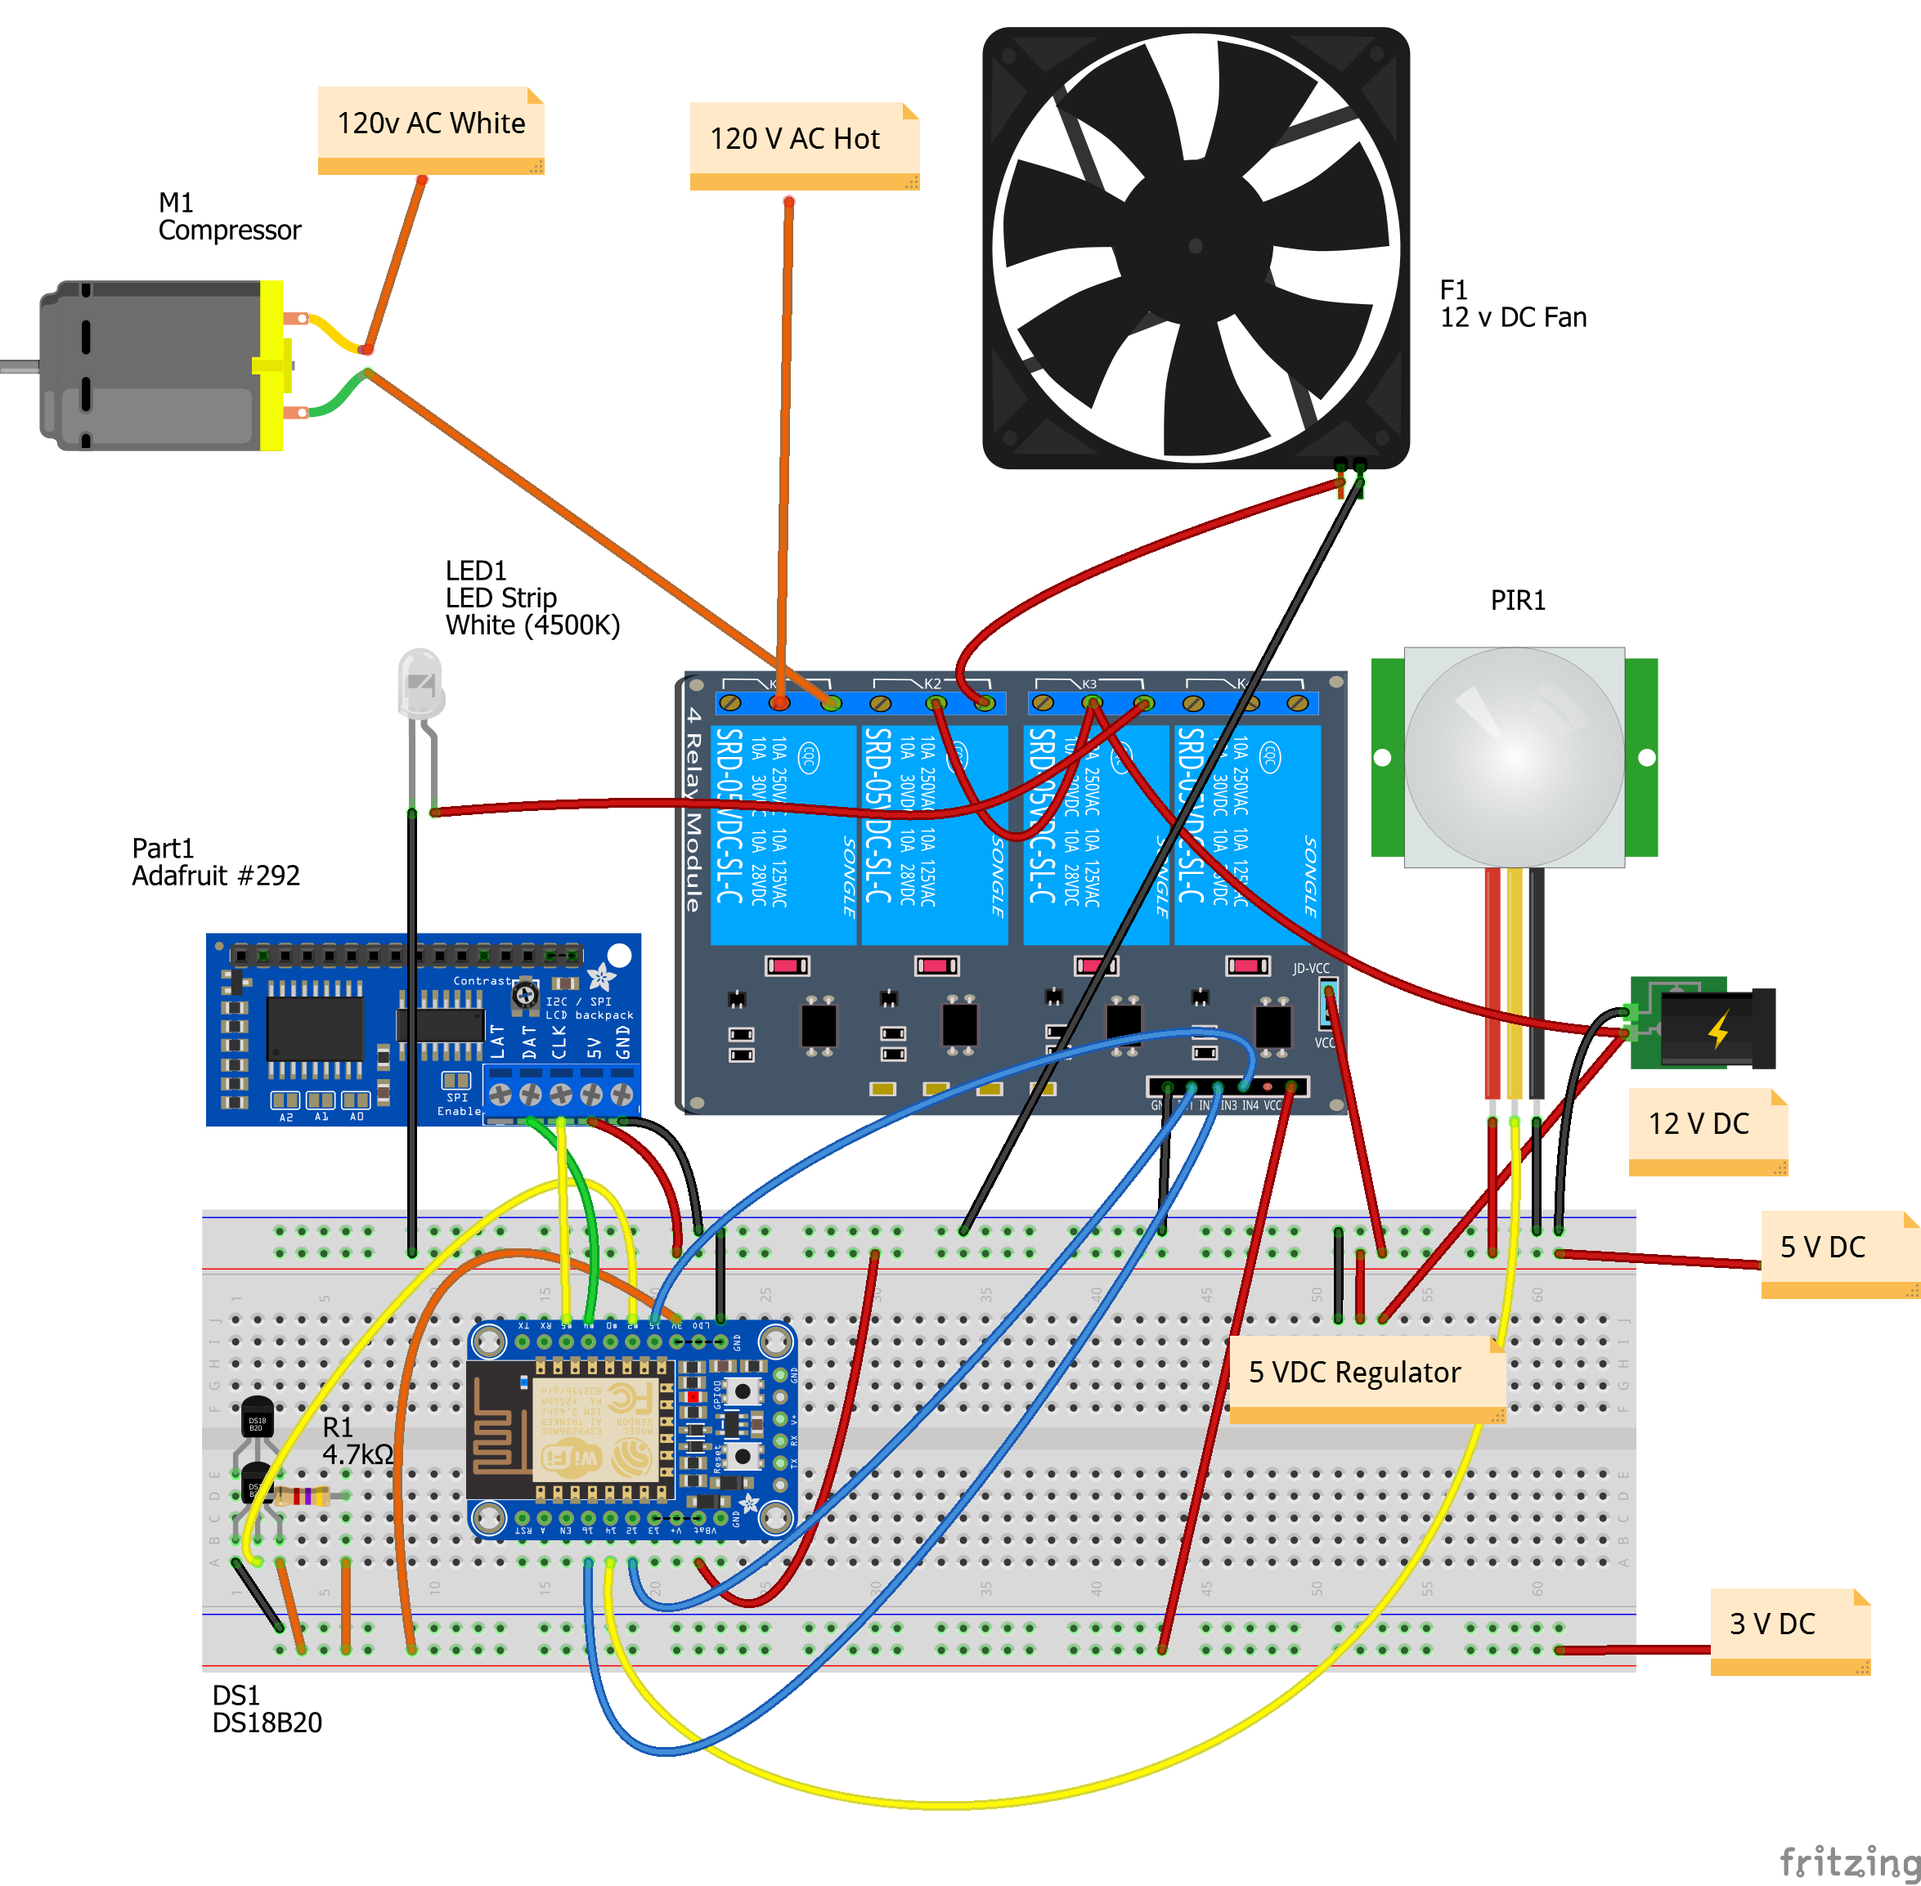
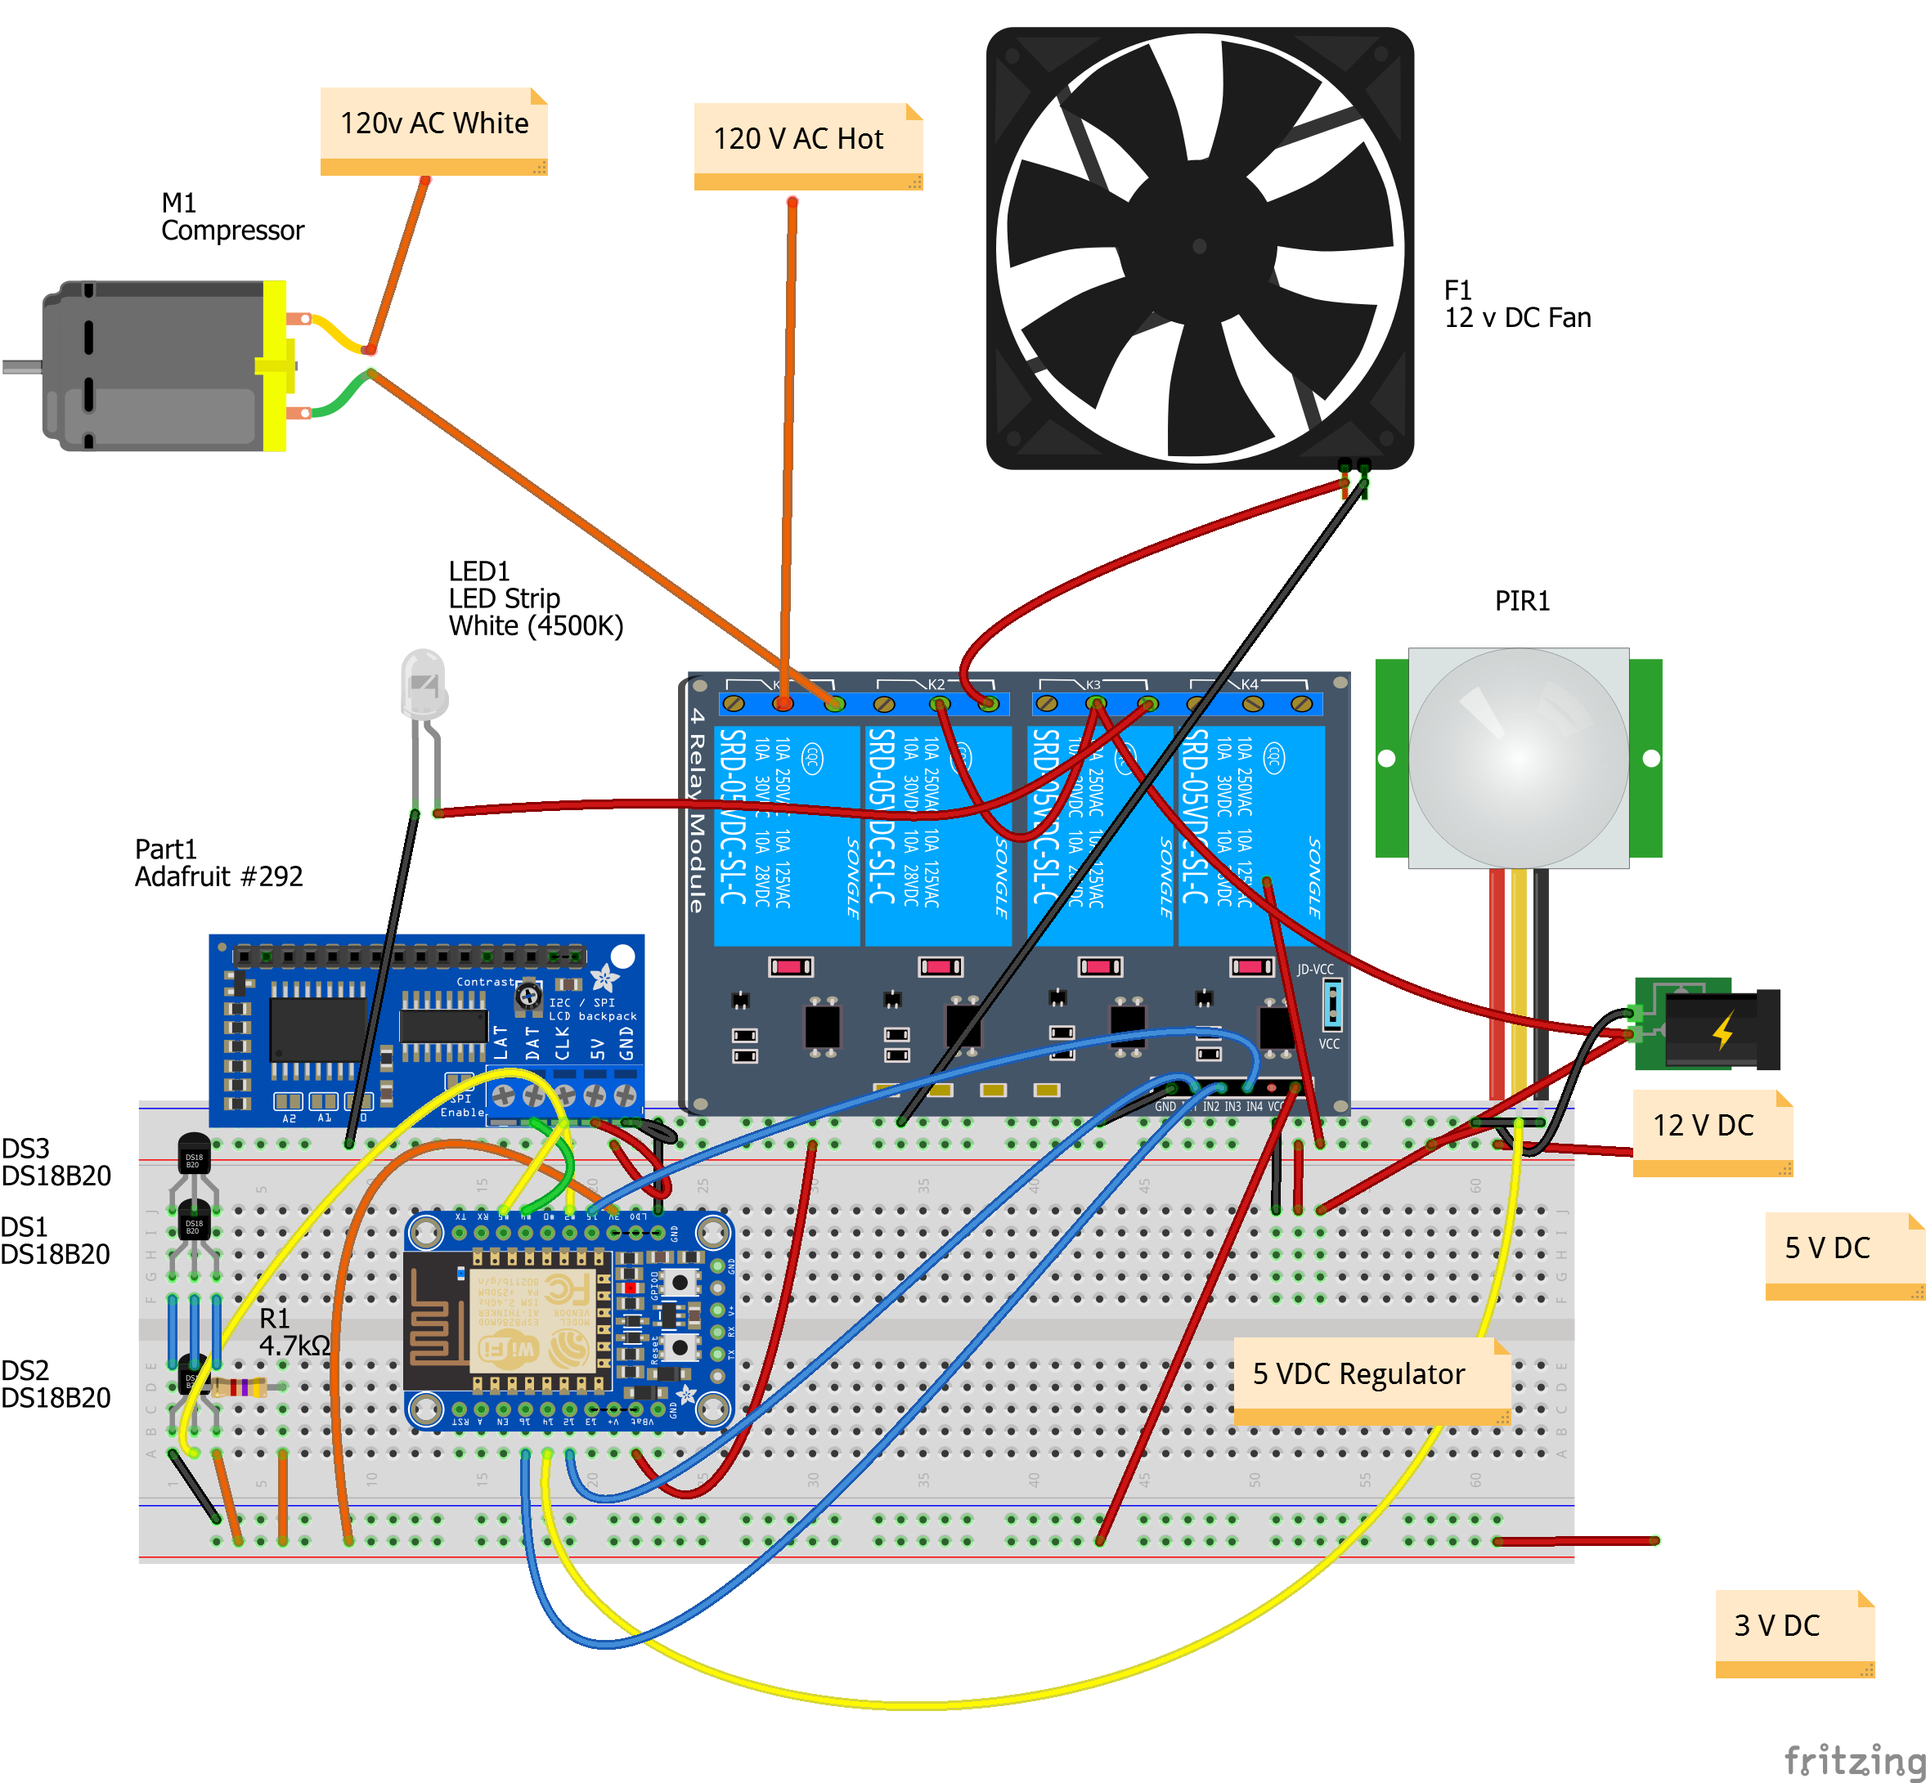
Added a 3rd temp sensor for measuring temp outside the keezer

diff --git a/src/TemperatureSensor.cpp b/src/TemperatureSensor.cpp
@@ -3,13 +3,14 @@
 #define TEMPERATURE_PRECISION 9
 OneWire _oneWire(2);
 DallasTemperature _ds18b20(&_oneWire);
-DeviceAddress _topThermometer, _bottomThermometer;
+DeviceAddress _topThermometer, _bottomThermometer, _exteriorThermometer;
 
 RBD::Timer _frequencyTimer;
 int _frequencySeconds;
 boolean _celsius;
-float _topTempearture;
-float _bottomTempearture;
+float _topTemperature;
+float _bottomTemperature;
+float _exteriorTemperature;
 
 void temparaturesensor_printAddress(DeviceAddress deviceAddress)
 {
@@ -23,17 +24,22 @@ void temparaturesensor_printAddress(DeviceAddress deviceAddress)
 
 float temperaturesensor_topTemperature()
 {
-  return _topTempearture;
+  return _topTemperature;
 }
 
 float temperaturesensor_bottomTemperature()
 {
-  return _bottomTempearture;
+  return _bottomTemperature;
+}
+
+float temperaturesensor_exteriorTemperature()
+{
+  return _exteriorTemperature;
 }
 
 float temperaturesensor_averageTemperature()
 {
-  float sum = _bottomTempearture + _topTempearture;
+  float sum = _bottomTemperature + _topTemperature;
   if (sum==0) {return 0.0;}
   return sum/2;
 }
@@ -56,6 +62,7 @@ void temperaturesensor_setup(boolean celsius, int frequencySeconds)
 
   if (!_ds18b20.getAddress(_bottomThermometer, 0)) Serial.println("Unable to find address for temperature Device 0");
   if (!_ds18b20.getAddress(_topThermometer, 1)) Serial.println("Unable to find address for temperature Device 1");
+  if (!_ds18b20.getAddress(_exteriorThermometer, 2)) Serial.println("Unable to find address for temperature Device 2");
 
   // Must be called before search()
   //_oneWire.reset_search();
@@ -72,8 +79,13 @@ void temperaturesensor_setup(boolean celsius, int frequencySeconds)
   temparaturesensor_printAddress(_topThermometer);
   Serial.println();
 
+  Serial.print("Temperature Device 2 Address: ");
+  temparaturesensor_printAddress(_exteriorThermometer);
+  Serial.println();
+
   _ds18b20.setResolution(_bottomThermometer, TEMPERATURE_PRECISION);
   _ds18b20.setResolution(_topThermometer, TEMPERATURE_PRECISION);
+  _ds18b20.setResolution(_exteriorThermometer, TEMPERATURE_PRECISION);
 
   Serial.print("Temperature Device 0 Resolution: ");
   Serial.print(_ds18b20.getResolution(_bottomThermometer), DEC);
@@ -81,6 +93,10 @@ void temperaturesensor_setup(boolean celsius, int frequencySeconds)
 
   Serial.print("Temperature Device 1 Resolution: ");
   Serial.print(_ds18b20.getResolution(_topThermometer), DEC);
+  Serial.println();
+
+  Serial.print("Temperature Device 2 Resolution: ");
+  Serial.print(_ds18b20.getResolution(_exteriorThermometer), DEC);
   Serial.println();
 
   _frequencyTimer.setTimeout(_frequencySeconds * 1000);
@@ -96,18 +112,26 @@ boolean temperaturesensor_loop()
     _ds18b20.requestTemperatures();
     float tempC = _ds18b20.getTempC(_topThermometer);
     if (!_celsius) {
-      _topTempearture = DallasTemperature::toFahrenheit(tempC);
+      _topTemperature = DallasTemperature::toFahrenheit(tempC);
     }
     else {
-      _topTempearture = tempC;
+      _topTemperature = tempC;
     }
 
     tempC = _ds18b20.getTempC(_bottomThermometer);
     if (!_celsius) {
-      _bottomTempearture = DallasTemperature::toFahrenheit(tempC);
+      _bottomTemperature = DallasTemperature::toFahrenheit(tempC);
     }
     else {
-      _bottomTempearture = tempC;
+      _bottomTemperature = tempC;
+    }
+
+    tempC = _ds18b20.getTempC(_exteriorThermometer);
+    if (!_celsius) {
+      _exteriorTemperature = DallasTemperature::toFahrenheit(tempC);
+    }
+    else {
+      _exteriorTemperature = tempC;
     }
 
     _frequencyTimer.setTimeout(_frequencySeconds * 1000);

diff --git a/src/myconfig.sample.h b/src/myconfig.sample.h
@@ -13,15 +13,16 @@
 
 /************************* MQTT Topics *********************************/
 
-#define MQTT_TOPIC_PING  "/home/keezer/ping"    // The topic that all keezer devices listens to
-#define MQTT_TOPIC_PINGR "/home/keezer/pingr/1" // The topic that this devices publishes as a response to a ping request
-                                                // The 1 at the end of the topic is the deviceId in case you have more than 1 keezer
+#define MQTT_TOPIC_PING             "/home/keezer/ping"                 // The topic that all keezer devices listens to
+#define MQTT_TOPIC_PINGR            "/home/keezer/pingr/1"              // The topic that this devices publishes as a response to a ping request
+                                                                        // The 1 at the end of the topic is the deviceId in case you have more than 1 keezer
 
-#define MQTT_TOPIC_TEMP_AVG     "/home/keezer/1/temp/avg"    // The topic for the keezer average temperature reading
-#define MQTT_TOPIC_TEMP_TOP     "/home/keezer/1/temp/top"    // The topic for the keezer top temperature sensor reading
-#define MQTT_TOPIC_TEMP_BOTTOM  "/home/keezer/1/temp/bottom" // The topic for the keezer bottom temperature sensor reading
+#define MQTT_TOPIC_TEMP_AVG         "/home/keezer/1/temp/avg"           // The topic for the keezer average temperature reading
+#define MQTT_TOPIC_TEMP_TOP         "/home/keezer/1/temp/top"           // The topic for the keezer top temperature sensor reading
+#define MQTT_TOPIC_TEMP_BOTTOM      "/home/keezer/1/temp/bottom"        // The topic for the keezer bottom temperature sensor reading
+#define MQTT_TOPIC_TEMP_EXTERIOR    "/home/keezer/1/temp/exterior"      // The topic for the keezer bottom temperature sensor reading
 
-#define MQTT_TOPIC_MOTION       "/home/keezer/1/motion/value"       // The topic for the keezer motion sensor
-#define MQTT_TOPIC_COMPRESSOR   "/home/keezer/1/compressor/value"   // The topic for the keezer compressor
-#define MQTT_TOPIC_FAN          "/home/keezer/1/fan/value"          // The topic for the keezer fan
-#define MQTT_TOPIC_LIGHT        "/home/keezer/1/light/value"        // The topic for the keezer light
+#define MQTT_TOPIC_MOTION           "/home/keezer/1/motion/value"       // The topic for the keezer motion sensor
+#define MQTT_TOPIC_COMPRESSOR       "/home/keezer/1/compressor/value"   // The topic for the keezer compressor
+#define MQTT_TOPIC_FAN              "/home/keezer/1/fan/value"          // The topic for the keezer fan
+#define MQTT_TOPIC_LIGHT            "/home/keezer/1/light/value"        // The topic for the keezer light

diff --git a/src/keezerLCD.cpp b/src/keezerLCD.cpp
@@ -26,16 +26,20 @@ void keezerlcd_printText(int mode)
       _lcd.print("Comp     Bot        ");
       break;
     case 2:
+      _lcd.setCursor(0, 0);
+      _lcd.print("Current Temperature2");
+      _lcd.setCursor(0, 1);
+      _lcd.print("Set      Ext        ");
+      _lcd.setCursor(0, 2);
+      _lcd.print("                    ");
+      _lcd.setCursor(0, 3);
+      _lcd.print("Comp                ");
+      break;
+    case 3:
       _lcd.print("Set Temperature     ");
       _lcd.print("High                ");
       _lcd.print("Avg                 ");
       _lcd.print("Low                 ");
-      break;
-    case 3:
-      _lcd.print("Daily Temperature   ");
-      _lcd.print("Top Hi      Low     ");
-      _lcd.print("Avg Hi      Low     ");
-      _lcd.print("Bot Hi      Low     ");
       break;
   }
 
@@ -58,6 +62,11 @@ void keezerlcd_printVariables(int mode)
       _lcd.print(temperaturesensor_bottomTemperature(),1);
       break;
     case 2:
+      _lcd.setCursor(13, 1);
+      _lcd.print(temperaturesensor_exteriorTemperature(),1);
+      _lcd.setCursor(5, 2);
+      break;
+    case 3:
       _lcd.setCursor(5, 1);
       _lcd.print(temperaturecontroller_highSetPointTemperature(),1);
       _lcd.setCursor(5, 2);

diff --git a/src/TemperatureController.cpp b/src/TemperatureController.cpp
@@ -150,6 +150,9 @@ boolean temperaturecontroller_loop(float fanTemperatureLow, float fanTemperature
     Serial.print("Top Temp ");
     Serial.print(temperaturesensor_topTemperature(), 1);
     Serial.println();
+    Serial.print("Ext Temp ");
+    Serial.print(temperaturesensor_exteriorTemperature(), 1);
+    Serial.println();
 
     _publishTempTimer.restart();
   }
@@ -175,6 +178,7 @@ void temperaturecontroller_publish(PubSubClient &mqttClient) {
     temperaturecontroller_publish(mqttClient, MQTT_TOPIC_TEMP_AVG, temperaturesensor_averageTemperature());
     temperaturecontroller_publish(mqttClient, MQTT_TOPIC_TEMP_BOTTOM, temperaturesensor_bottomTemperature());
     temperaturecontroller_publish(mqttClient, MQTT_TOPIC_TEMP_TOP, temperaturesensor_topTemperature());
+    temperaturecontroller_publish(mqttClient, MQTT_TOPIC_TEMP_EXTERIOR, temperaturesensor_exteriorTemperature());
     _publishTemperature = false;
   }
 }

diff --git a/src/temperatureSensor.h b/src/temperatureSensor.h
@@ -11,6 +11,7 @@ boolean temperaturesensor_loop();
 float temperaturesensor_topTemperature();
 float temperaturesensor_averageTemperature();
 float temperaturesensor_bottomTemperature();
+float temperaturesensor_exteriorTemperature();
 
 
 #endif

diff --git a/readme.md b/readme.md
@@ -6,7 +6,7 @@ Master Branch [![Build Status](https://travis-ci.org/mlinnen/my-keezer.svg?branc
 Dev Branch [![Build Status](https://travis-ci.org/mlinnen/my-keezer.svg?branch=dev)](https://travis-ci.org/mlinnen/my-keezer)
 
 ## Goals 
-I have a number of goals I want to achieve for this custom controller.  At this point I doubt all of this could or should be done on a single ESP8266 micro.  It is likely I will have a number of ESP8266's that work together over MQTT to achieve all of the functionality I want.  This project will evolve over a long period of time.  The following is a list of goals which I hope to eventually turn into actual features.
+I have a number of goals I want to achieve for this custom controller.  At this point I doubt all of this could or should be done on a single ESP8266 micro.  It is likely I will have a number of ESP8266's that work together over MQTT to achieve all of the functionality I want.  This project will evolve over a long period of time.
 
 ### Future list of features
 Check out the [Github Issues (label enhancements)](https://github.com/mlinnen/my-keezer/labels/enhancement) for a list of features that are planned for a later date.
@@ -16,6 +16,7 @@ This is a list of actual features the current code base supports.
 
 ### Current list of features
 * Measure the temperature inside the keezer with two temperature sensors (one at the top and one at the bottom)
+* Measure the temperature outside the keezer
 * Control the keezer temperature given a temperature set point and the temperature sensor reading ()
 * Display the current temperature of the keezer on an LCD
 * Turn on/off a fan(s) to circulate the air in the keezer when the difference between the top and bottom sensors is greater than a given threshold.  
@@ -29,7 +30,7 @@ This is a list of actual features the current code base supports.
 * Allow for the keezer to join a new Wifi or a different MQTT broker by holding down the mode pushbutton for > 3 seconds.
 
 ## Hardware
-* 2 DS18B20 Temperature Sensor
+* 3 DS18B20 Temperature Sensors
 * 1 4.7K Resistor
 * 1 [HUZZAH ESP8266](https://www.adafruit.com/product/2471)
 * 1 [4 Channel Relay Board](https://www.sunfounder.com/4-channel-5v-relay-shield-module.html)
@@ -69,7 +70,16 @@ Set  43.0 Top 44.5
 Comp Off  Bot 42.5
 ```  
 
-Example Mode 2 Set Temperature
+Example Mode 2 External Temperature
+```
+Current Temperature2
+Set  43.0 Ext 82.0
+        
+                  
+Comp Off          
+```
+
+Example Mode 3 Set Temperature
 ```
 Set Temperature
 Top 44.0
